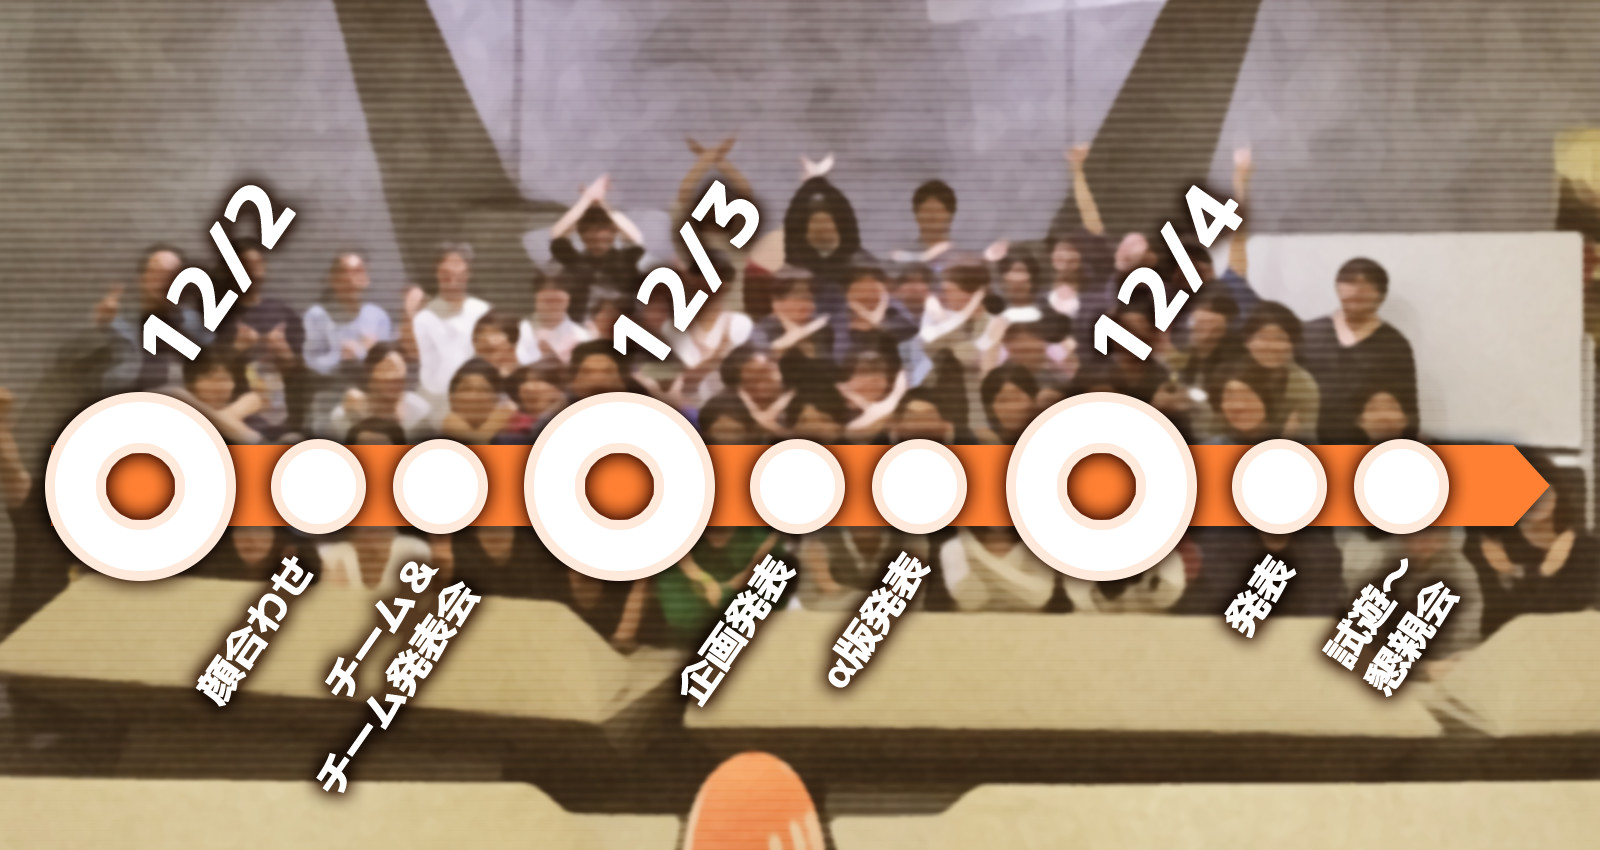
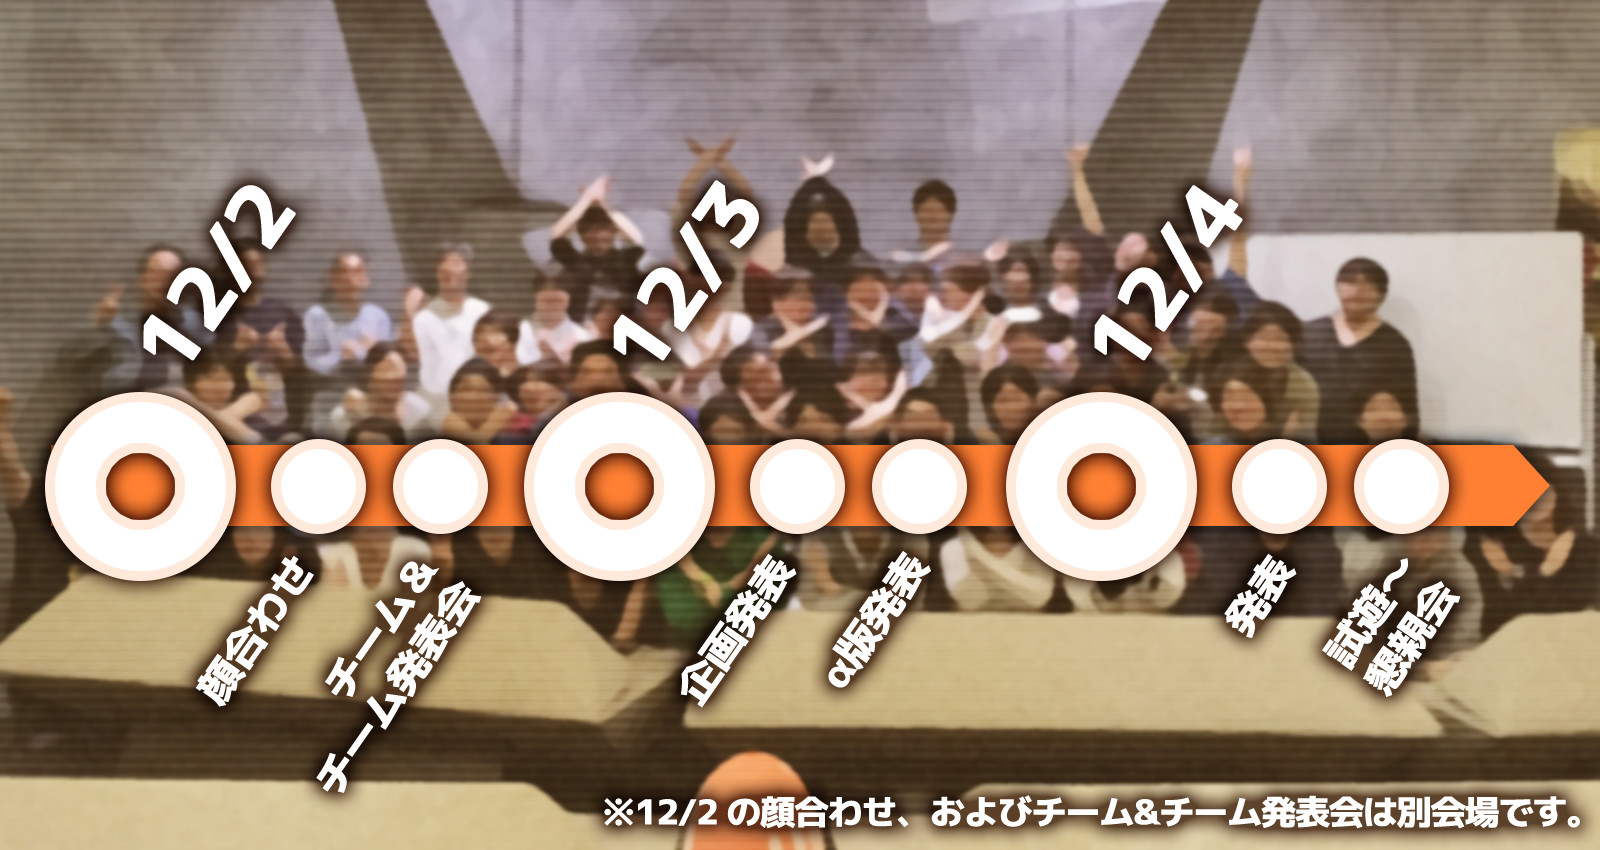
フォームへのリンク、スライダー３枚目の表記、カウントダウンのJS日付を更新

Changed region(s): [[0.375, 0.9176, 1.0, 1.0]]

diff --git a/cogj03/03_index.html b/cogj03/03_index.html
@@ -138,7 +138,7 @@
 				</div>
 			</div>
 			<div class="cart">
-				<a href="https://docs.google.com/forms/d/1vs0bu-s4c9No3vZj6wtq9MTmQPbinv5tBINbcyQKsYM/viewform" target="_blank"><i class="fa fa-edit"></i> <span>ENTRY</span></a>
+				<a href="https://docs.google.com/forms/d/e/1FAIpQLSdTfPrRWi9RKk32QgFksW79MiviC8NGxOG4C1ca2fKPvjw-Yw/viewform" target="_blank"><i class="fa fa-edit"></i> <span>ENTRY</span></a>
 			</div>
 		</div>
 	</section>

diff --git a/cogj03/js/main.js b/cogj03/js/main.js
@@ -2,7 +2,7 @@ jQuery(function($) {'use strict',
 	
 	//Countdown js
 	 $("#countdown").countdown({
-			date: "21 december 2016 10:00:00",
+			date: "2 december 2016 20:00:00",
 			format: "on"
 		},
 		
